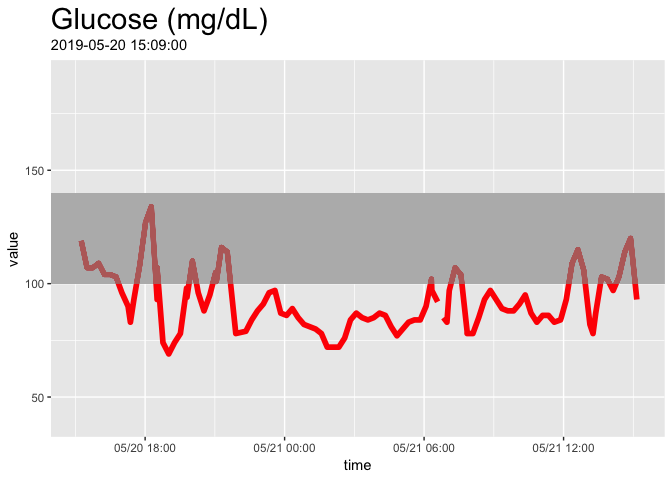
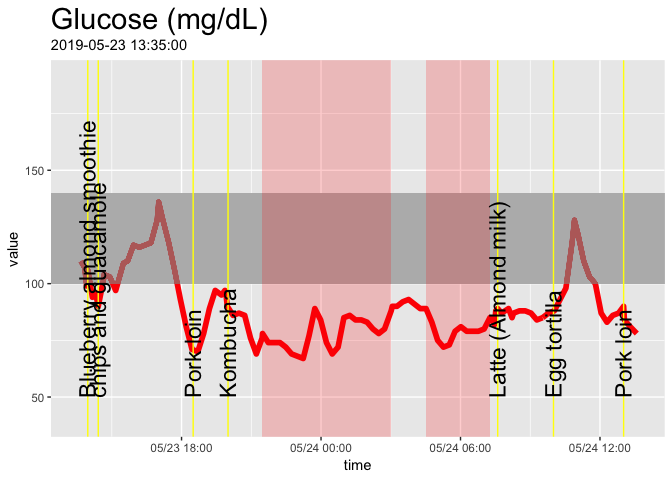
includes reducose trial

Changed region(s): [[0.0938, 0.125, 0.9688, 0.9375], [0.1562, 0.9062, 0.3125, 0.9375], [0.2188, 0.0625, 0.25, 0.0938]]

diff --git a/README.md b/README.md
@@ -1,7 +1,7 @@
 Continuous Glucose Monitoring with Freestyle Libre
 ================
 Richard Sprague
-2019-05-21
+2019-05-24
 
 See [Continous Glucose Monitoring: Start
 Here](http://richardsprague.com/notes/continuous-glucose-monitoring/)
@@ -203,7 +203,7 @@ Here’s how I look when eating specific foods:
     ## Scale for 'x' is already present. Adding another scale for 'x', which
     ## will replace the existing scale.
 
-![](README_files/figure-gfm/unnamed-chunk-6-14.png)<!-- -->![](README_files/figure-gfm/unnamed-chunk-6-15.png)<!-- -->![](README_files/figure-gfm/unnamed-chunk-6-16.png)<!-- -->
+![](README_files/figure-gfm/unnamed-chunk-6-14.png)<!-- -->![](README_files/figure-gfm/unnamed-chunk-6-15.png)<!-- -->![](README_files/figure-gfm/unnamed-chunk-6-16.png)<!-- -->![](README_files/figure-gfm/unnamed-chunk-6-17.png)<!-- -->
 
 ## Basic Statistics
 
@@ -237,7 +237,7 @@ glucose %>% filter(apply(sapply(glucose$time,
     ## ------------------------------------------------------------------------- 
     ## Describe . (tbl_df, tbl, data.frame):
     ## 
-    ## data.frame:  1619 obs. of  1 variables
+    ## data.frame:  1826 obs. of  1 variables
     ## 
     ##   Nr  ColName  Class    NAs  Levels
     ##   1   value    numeric  .          
@@ -247,17 +247,17 @@ glucose %>% filter(apply(sapply(glucose$time,
     ## Glucose Values While Sleeping
     ## 
     ##   length       n    NAs  unique     0s   mean  meanCI
-    ##    1'619   1'619      0      85      0  77.22   76.50
-    ##           100.0%   0.0%           0.0%          77.94
+    ##    1'826   1'826      0      89      0  78.15   77.47
+    ##           100.0%   0.0%           0.0%          78.83
     ##                                                      
     ##      .05     .10    .25  median    .75    .90     .95
-    ##    49.00   57.00  70.00   78.00  86.00  94.00  100.00
+    ##    51.00   58.50  71.00   78.50  86.00  96.00  102.00
     ##                                                      
     ##    range      sd  vcoef     mad    IQR   skew    kurt
-    ##    92.00   14.76   0.19   11.86  16.00  -0.12    0.77
+    ##    92.00   14.83   0.19   11.12  15.00  -0.02    0.96
     ##                                                      
     ## lowest : 40.0 (31), 41.0 (5), 42.0 (4), 43.0 (3), 44.0 (3)
-    ## highest: 122.0, 125.0, 126.0 (2), 131.0, 132.0 (2)
+    ## highest: 125.0 (2), 126.0 (2), 129.0, 131.0 (2), 132.0 (2)
 
 ![](README_files/figure-gfm/unnamed-chunk-7-1.png)<!-- -->
 
@@ -272,24 +272,24 @@ glucose %>% filter(apply(sapply(glucose$time,
     ## ------------------------------------------------------------------------- 
     ## Describe . (tbl_df, tbl, data.frame):
     ## 
-    ## data.frame:  6689 obs. of  1 variables
+    ## data.frame:  7082 obs. of  1 variables
     ## 
     ##   Nr  ColName  Class    NAs        Levels
-    ##   1   value    numeric  88 (1.3%)        
+    ##   1   value    numeric  95 (1.3%)        
     ## 
     ## 
     ## ------------------------------------------------------------------------- 
     ## Glucose Values While Awake
     ## 
     ##   length      n    NAs  unique     0s    mean  meanCI
-    ##    6'689  6'601     88     132      0   88.41   87.94
-    ##           98.7%   1.3%           0.0%           88.88
+    ##    7'082  6'987     95     134      0   88.62   88.16
+    ##           98.7%   1.3%           0.0%           89.07
     ##                                                      
     ##      .05    .10    .25  median    .75     .90     .95
-    ##    60.00  67.00  76.00   86.00  99.00  114.00  125.00
+    ##    60.00  67.00  77.00   86.00  99.00  114.00  125.00
     ##                                                      
     ##    range     sd  vcoef     mad    IQR    skew    kurt
-    ##   151.00  19.53   0.22   16.31  23.00    0.71    1.35
+    ##   151.00  19.35   0.22   16.31  22.00    0.72    1.40
     ##                                                      
     ## lowest : 40.0 (33), 41.0 (5), 42.0 (5), 43.0 (3), 44.0 (7)
     ## highest: 174.0, 182.0 (2), 187.0, 188.0, 191.0
